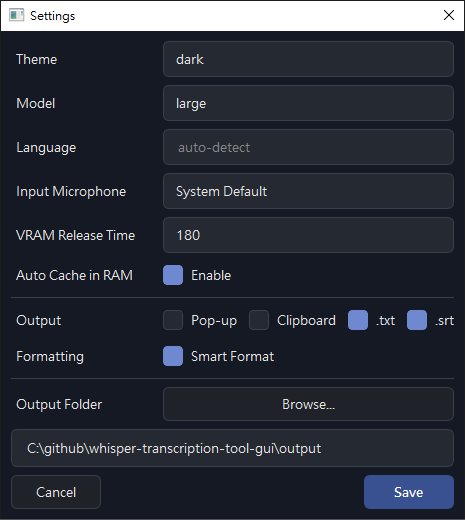
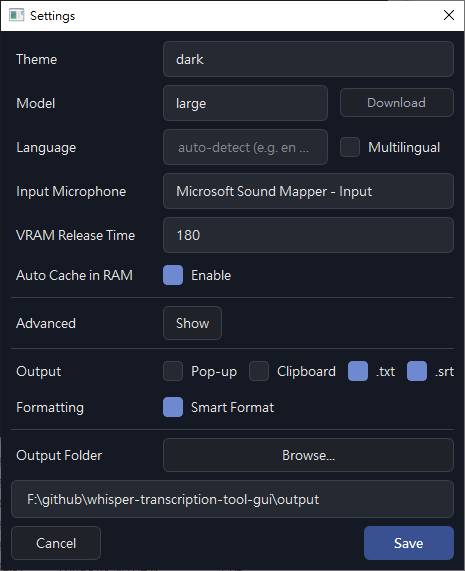
Enhance UI

diff --git a/gui.py b/gui.py
@@ -766,17 +766,28 @@ class MainWindow(QWidget):
         base_dir = Path(__file__).resolve().parent
         if sys.platform == "win32":
             script = base_dir / "update-app.bat"
-            cmd = ["cmd", "/c", str(script)]
+            cmd = ["cmd", "/c", str(script), "--relaunch"]
+            creationflags = subprocess.CREATE_NEW_PROCESS_GROUP | getattr(subprocess, "DETACHED_PROCESS", 0)
+            popen_kwargs = {"creationflags": creationflags}
         else:
             script = base_dir / "update-app.sh"
-            cmd = ["bash", str(script)]
+            cmd = ["bash", str(script), "--relaunch"]
+            popen_kwargs = {"start_new_session": True}
 
         if not script.exists():
             QMessageBox.warning(self, "Update", f"Update script not found: {script}")
             return False
 
         try:
-            subprocess.Popen(cmd, cwd=str(base_dir))
+            with open(os.devnull, "wb") as devnull:
+                subprocess.Popen(
+                    cmd,
+                    cwd=str(base_dir),
+                    stdin=devnull,
+                    stdout=devnull,
+                    stderr=devnull,
+                    **popen_kwargs,
+                )
             return True
         except Exception as exc:
             QMessageBox.warning(self, "Update", f"Failed to launch update script.\n{exc}")

diff --git a/dialogs.py b/dialogs.py
@@ -818,6 +818,8 @@ class SettingsDialog(QWidget):
         model_hint = self.model_download_btn.sizeHint()
         custom_hint = self.custom_download_btn.sizeHint()
         target_w = max(model_hint.width(), custom_hint.width())
+        if hasattr(self, "ck_multilingual"):
+            target_w = max(target_w, self.ck_multilingual.sizeHint().width())
         target_h = max(model_hint.height(), custom_hint.height())
         if target_w <= 0:
             target_w = 92
@@ -825,6 +827,8 @@ class SettingsDialog(QWidget):
             target_h = 28
         self.model_download_btn.setFixedSize(target_w, target_h)
         self.custom_download_btn.setFixedSize(target_w, target_h)
+        if hasattr(self, "ck_multilingual"):
+            self.ck_multilingual.setFixedWidth(target_w)
 
     def _create_combo(self, items, current):
         """創建下拉選單"""
